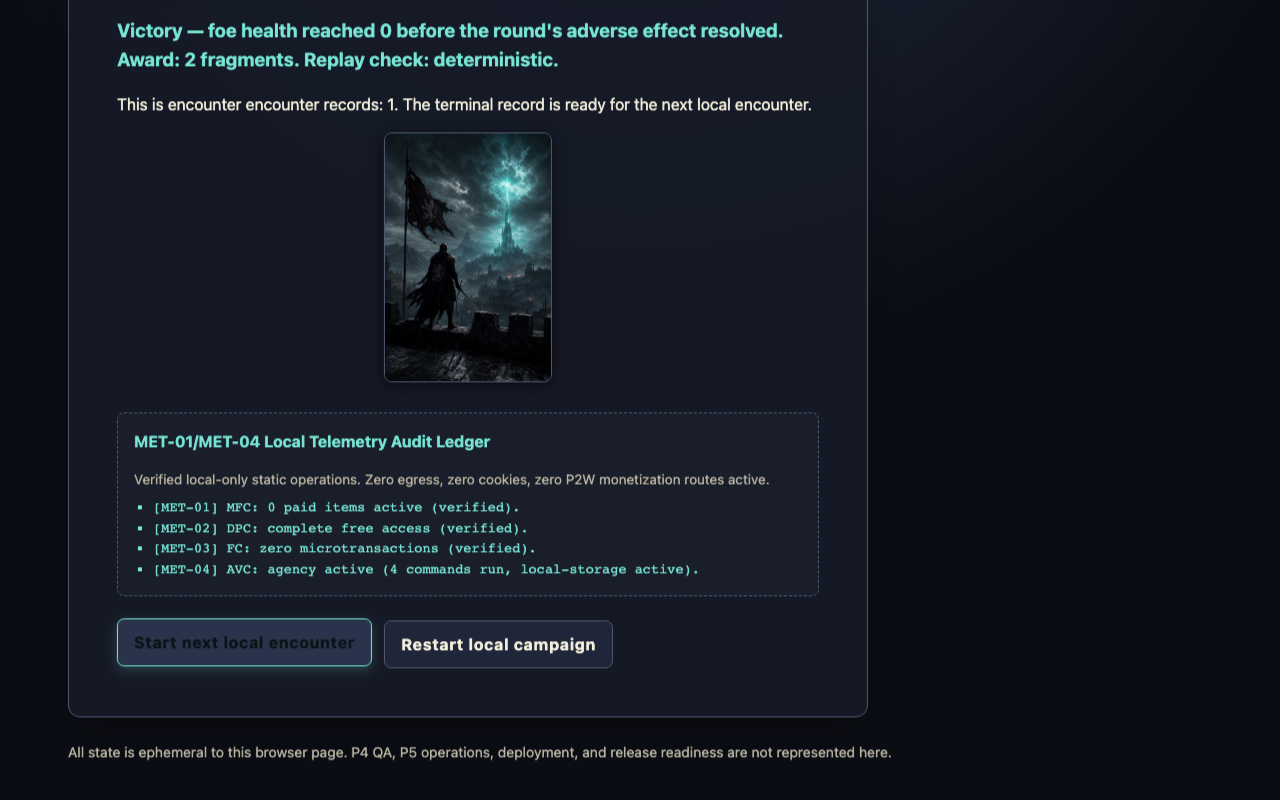
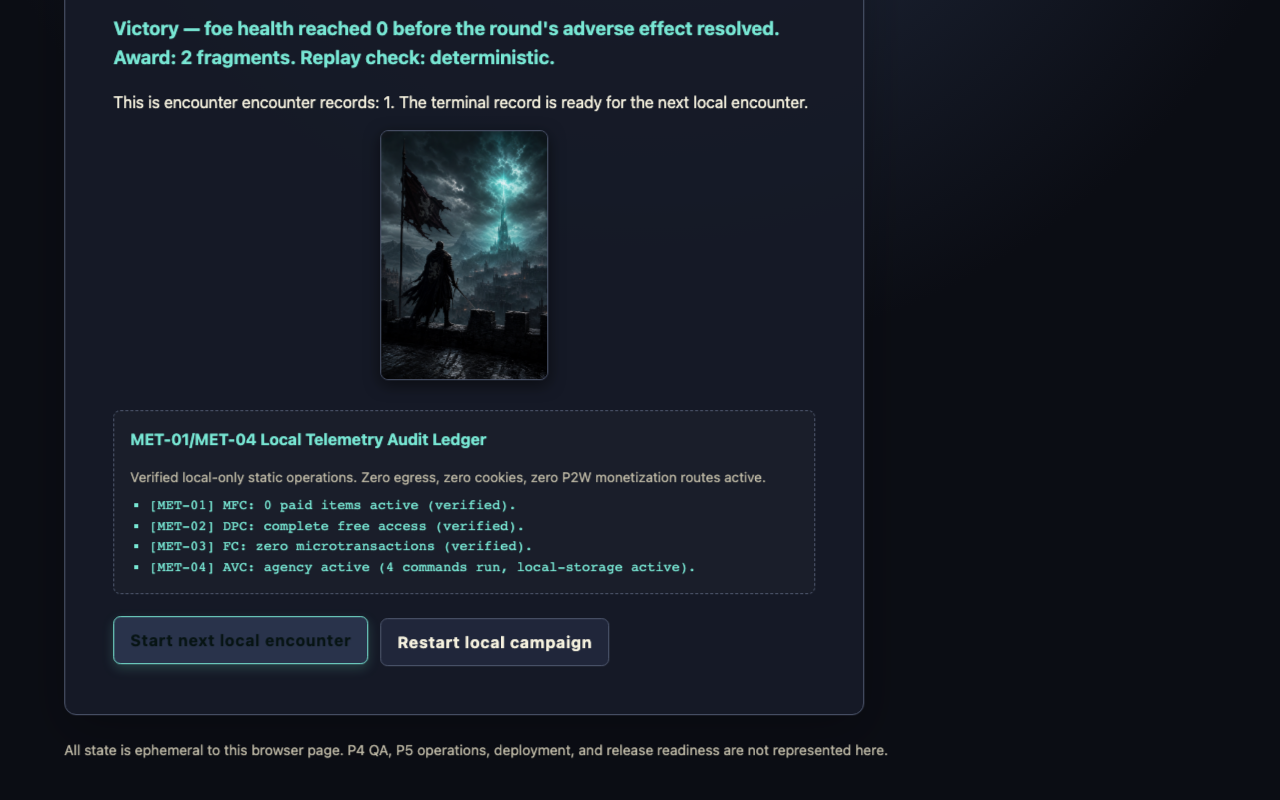
feat: Cycle 009 checkpoint #1 — quantified balance (64-plan sweep evidence + DISRUPT cost badge) and presentation play (state-diff combat floats + screen shake); S5 HOLD copy + help note; E2E juice/cost asserts

diff --git a/app.js b/app.js
@@ -177,6 +177,7 @@ const DICTIONARY = {
     intentTitle: "Current threat:",
     commandsTitle: "Semantic commands",
     commandHelp: "Pointer/touch clicks and keyboard shortcuts record the same versioned command before the deterministic reducer resolves it. Unavailable commands are disabled rather than substituted.",
+    commandHelpStage5: "Stage 5: every accepted command resolves one FULL round \u2014 your effect and the foe's answer land together, and focus does not regenerate.",
     traceTitle: "Resolution trace",
     terminalTitle: "Stage 1 result",
     btnStrike: "Strike",
@@ -229,6 +230,7 @@ const DICTIONARY = {
     intentTitle: "현재 위협:",
     commandsTitle: "커맨드 콘솔",
     commandHelp: "마우스 클릭이나 키보드 단축키(S, B, D, R)를 누르면 결정론적 리듀서가 커맨드 입력을 처리합니다. 사용할 수 없는 커맨드는 비활성화됩니다.",
+    commandHelpStage5: "5\ub2e8\uacc4: \uc2b9\uc778\ub41c \ucee4\ub9e8\ub4dc 1\ud68c\uac00 \ud55c \ub77c\uc6b4\ub4dc \uc804\uccb4\ub97c \uacb0\uc0b0\ud569\ub2c8\ub2e4 \u2014 \ub0b4 \ud6a8\uacfc\uc640 \uc801\uc758 \uc751\uc218\uac00 \ub3d9\uc2dc\uc5d0 \uc801\uc6a9\ub418\uace0, \uc9d1\uc911\uc740 \uc7ac\uc0dd\ub418\uc9c0 \uc54a\uc2b5\ub2c8\ub2e4.",
     traceTitle: "전투 분석 로그",
     terminalTitle: "전투 결과 기록",
     btnStrike: "공격",
@@ -1172,7 +1174,7 @@ function translateUI() {
   }
 
   el("#commands-title", dict.commandsTitle);
-  el("#command-help", dict.commandHelp);
+  el("#command-help", encounterIndex === 4 ? `${dict.commandHelp} ${dict.commandHelpStage5 || ""}` : dict.commandHelp);
   el("#trace-title", dict.traceTitle);
   el("#terminal-title", dict.terminalTitle);
   el("#continue-button", dict.btnContinue);
@@ -1204,7 +1206,14 @@ function translateUI() {
     if (buttonsMap[cmd]) {
       const key = cmd === "STRIKE" ? "S" : cmd === "BRACE" ? "B" : cmd === "DISRUPT" ? "D" : "R";
       const cleanLabel = buttonsMap[cmd].replace(new RegExp(`\\s*${key}$`), "");
-      button.innerHTML = `${cleanLabel} <kbd>${key}</kbd>`;
+      // DET9-NUM: surface the live command cost when it exceeds the base 1
+      // (stage-5 escalating DISRUPT) so the economy is readable on the button.
+      let costBadge = "";
+      try {
+        const liveCost = commandCost(encounter, cmd);
+        if (liveCost > 1) costBadge = ` <span class="cost-badge">${liveCost}\u26a1</span>`;
+      } catch (err) { /* unknown command labels never break translation */ }
+      button.innerHTML = `${cleanLabel}${costBadge} <kbd>${key}</kbd>`;
     }
   }
 
@@ -1523,6 +1532,48 @@ function resetCampaign() {
 }
 
 
+
+// ── DET9-JUICE: floating combat numbers + screen shake (presentation-only) ──
+// Driven by STATE DIFFS in render(): any foe_health/integrity/pressure/guard/
+// focus delta becomes a float over its owner, no matter which path (reducer,
+// RT wrap, unit arrival) caused it. The quantified economy becomes visible.
+let lastVitals = null;
+let floatsSpawned = 0;
+let shakeTimer = null;
+
+function spawnCombatFloat(anchor, text, kind) {
+  if (!anchor || typeof document === "undefined" || !document.createElement) return;
+  try {
+    const float = document.createElement("span");
+    float.className = `combat-float combat-float-${kind}`;
+    float.textContent = text;
+    if (float.style) float.style.marginLeft = `${Math.round((Math.random() - 0.5) * 36)}px`;
+    if (!anchor.appendChild) return;
+    anchor.appendChild(float);
+    floatsSpawned++;
+    if (typeof window !== "undefined") window.combatFloatCount = floatsSpawned;
+    const cleanup = () => {
+      if (float.parentNode) float.parentNode.removeChild(float);
+    };
+    if (typeof float.addEventListener === "function") float.addEventListener("animationend", cleanup);
+    setTimeout(cleanup, 1400);
+  } catch (err) {
+    /* fake-DOM safety: floats are never load-bearing */
+  }
+}
+
+function triggerScreenShake() {
+  const el = dom.screens && dom.screens.play;
+  if (!el || !el.classList) return;
+  el.classList.remove("screen-shake");
+  void (el.offsetWidth || 0); // restart animation
+  el.classList.add("screen-shake");
+  if (shakeTimer) clearTimeout(shakeTimer);
+  shakeTimer = setTimeout(() => {
+    if (el.classList) el.classList.remove("screen-shake");
+  }, 400);
+}
+
 function render() {
   if (typeof window !== "undefined") {
     window.surface = surface;
@@ -1560,6 +1611,37 @@ function render() {
   if (dom.guardBar) dom.guardBar.style.width = percentage(encounter.guard, maxGuard);
   if (dom.pressureBar) dom.pressureBar.style.width = percentage(encounter.pressure, maxPressure);
   if (dom.foeHealthBar) dom.foeHealthBar.style.width = percentage(encounter.foe_health, maxFoeHealth);
+
+  // DET9-JUICE: diff vitals -> floats. Snapshot key ties floats to one
+  // encounter instance; transitions (continue/restart/resume) just resnapshot.
+  const vitalsKey = `${encounterIndex}|${outcomes.length}`;
+  const vitals = {
+    key: vitalsKey,
+    foe: Number(encounter.foe_health),
+    integrity: Number(encounter.integrity),
+    pressure: Number(encounter.pressure),
+    guard: Number(encounter.guard),
+    focus: Number(encounter.focus),
+  };
+  if (surface === "play" && lastVitals && lastVitals.key === vitalsKey) {
+    const dFoe = vitals.foe - lastVitals.foe;
+    if (dFoe < 0) spawnCombatFloat(dom.voidAvatar, `${dFoe}`, "damage");
+    const dInt = vitals.integrity - lastVitals.integrity;
+    if (dInt < 0) {
+      spawnCombatFloat(dom.knightAvatar, `${dInt}`, "damage");
+      if (dInt <= -2) triggerScreenShake();
+    } else if (dInt > 0) {
+      spawnCombatFloat(dom.knightAvatar, `+${dInt}`, "heal");
+    }
+    const dPressure = vitals.pressure - lastVitals.pressure;
+    if (dPressure > 0) spawnCombatFloat(dom.knightAvatar, `+${dPressure} \u26a0`, "pressure");
+    const dGuard = vitals.guard - lastVitals.guard;
+    if (dGuard > 0) spawnCombatFloat(dom.knightAvatar, `+${dGuard} \u26e8`, "guard");
+    const dFocus = vitals.focus - lastVitals.focus;
+    if (dFocus <= -0.9) spawnCombatFloat(dom.knightAvatar, `${Math.round(dFocus)} \u26a1`, "focus");
+    else if (dFocus >= 0.9) spawnCombatFloat(dom.knightAvatar, `+${Math.round(dFocus)} \u26a1`, "focus");
+  }
+  lastVitals = vitals;
 
   // Update Foe active intent visual alerts
   if (dom.voidAvatar && dom.voidAvatar.classList) {
@@ -1983,7 +2065,13 @@ function commandAvailable(command) {
 
 function terminalCopy(outcome) {
   const label = traceOutcomeText(outcome);
-  const details = outcomeText(outcome);
+  let details = outcomeText(outcome);
+  // World-bible S5 beat: HOLD is survival, not an answer — point at the trade.
+  if (outcome === "HOLD" && encounterIndex === 4) {
+    details = currentLang === "ko"
+      ? "전장은 지켜냈지만 서지의 물음은 답을 얻지 못했다. 보상 0 — 확실함을 내주는 교환만이 승리를 연다"
+      : "the field held, but the Surge's question stands unanswered. Award 0 — only a deliberate trade opens victory";
+  }
   return `${label} — ${details}.`;
 }
 

diff --git a/styles.css b/styles.css
@@ -503,3 +503,41 @@ button:focus-visible, a:focus-visible {
     filter: drop-shadow(0 0 22px rgba(239, 68, 68, 0.9)) drop-shadow(0 0 44px rgba(190, 24, 93, 0.55));
   }
 }
+
+/* ── DET9-JUICE: floating combat numbers + screen shake ─────────────────── */
+.entity-avatar { position: relative; }
+.combat-float {
+  position: absolute;
+  left: 50%;
+  top: -6px;
+  transform: translateX(-50%);
+  font-weight: 800;
+  font-size: 1.05rem;
+  pointer-events: none;
+  z-index: 40;
+  white-space: nowrap;
+  text-shadow: 0 1px 4px rgba(0, 0, 0, 0.9);
+  animation: combat-float-rise 1.1s ease-out forwards;
+}
+.combat-float-damage { color: #ef4444; }
+.combat-float-heal { color: #10b981; }
+.combat-float-guard { color: #3b82f6; }
+.combat-float-focus { color: #eab308; }
+.combat-float-pressure { color: #f97316; }
+@keyframes combat-float-rise {
+  0% { opacity: 0; transform: translate(-50%, 8px) scale(0.85); }
+  15% { opacity: 1; }
+  100% { opacity: 0; transform: translate(-50%, -34px) scale(1.05); }
+}
+.screen-shake { animation: screen-shake-anim 0.25s ease-in-out; }
+@keyframes screen-shake-anim {
+  0%, 100% { transform: translate(0, 0); }
+  25% { transform: translate(-6px, 2px); }
+  50% { transform: translate(5px, -3px); }
+  75% { transform: translate(-3px, 2px); }
+}
+.cost-badge { color: #eab308; font-weight: 700; font-size: 0.8em; }
+@media (prefers-reduced-motion: reduce) {
+  .combat-float { animation: none; opacity: 0.9; }
+  .screen-shake { animation: none; }
+}

diff --git a/_workspace/20260716-design-cadence-cycle-009-v1/production/checkpoint-log.md b/_workspace/20260716-design-cadence-cycle-009-v1/production/checkpoint-log.md
@@ -24,3 +24,46 @@ Findings:
 
 Directives (C009-D-001): DET9-COPY (F1), DET9-COST (F2), DET9-HELP (F3) — all
 presentation-lane, en+ko, fake-DOM-safe, E2E-guarded where feasible.
+
+## Checkpoint #1 amendment — user interjection (2026-07-16T20:30Z)
+
+User: "중요한건 수치화된 벨런스와 연출 플레이" — QUANTIFIED BALANCE and
+PRESENTATION PLAY supersede copy polish. Reprioritized directives:
+
+- DET9-NUM (P0): quantified balance — computed per-stage numeric table
+  (core configs + commandCost curves + RT presets + derived metrics:
+  idle time-to-defeat, focus budgets, S5 policy space) shipped as
+  balance-numbers evidence; dynamic DISRUPT cost surfaced on the button (F2).
+- DET9-JUICE (P0): presentation play — floating combat numbers driven by
+  STATE DIFFS (foe_health/integrity/pressure/guard deltas render as floats
+  over their owners; focus costs at command sites), light screen shake on
+  big integrity hits; reduced-motion safe. Balance numbers become visible
+  in play — the two priorities meet.
+- F1/F3 copy: folded in as minor items (S5 HOLD override line, S5 help note).
+
+## Checkpoint #1 — implementation + QA close (2026-07-16T21:10Z)
+
+Shipped (DET9-JUICE): state-diff floating combat numbers over both avatars
+(foe damage, integrity damage/heal, +pressure, +guard, discrete focus spend),
+screen shake on >=2 integrity hits, reduced-motion collapse. All spawn paths
+covered because diffing happens in render(), not at call sites.
+Shipped (DET9-NUM): scripts/balance-numbers.mjs (64-plan frozen-reducer sweep
+per stage + RT presets parsed from app.js) -> systems/balance-numbers-v1.md;
+escalating DISRUPT cost badge on the command button (1 hidden, 2⚡/3⚡ shown).
+Shipped (F1/F3): S5 HOLD terminal copy override (en/ko), S5 command-help note.
+
+QA: vertical-slice 3/3, game-core 14/14, 5-stage sim PASS, browser E2E exit 0
+with new probe asserts — damageFloatSeen=true, floatsDelta=4/round,
+costBadge="2⚡" after first DISRUPT.
+
+QUANTIFIED FINDING (peer handoff): the 64-plan sweep proves stages 2/3/4 have
+ZERO victory plans in the 3-round semantic game (foe 8/10/12 HP vs max ~6
+damage per 3 rounds). Winnable stages: 1 (1 plan) and 5 (2 plans). The RT
+endless-loop makes 2-4 winnable only by unbounded grinding — the semantic
+economy for 2-4 is a peer (P2 systems) decision: either raise damage ceilings,
+lower foe HP, or accept HOLD-gated progression. Relayed via shared memory.
+
+## Checkpoint #2 — scheduled (next ~30min of production work)
+
+Agenda: peer response on stages 2-4 economy; float polish review on live;
+lobby copy vs quantified table (surface victory-plan hints?); APK icon check.

diff --git a/_workspace/20260716-design-cadence-cycle-009-v1/systems/balance-numbers-v1.md b/_workspace/20260716-design-cadence-cycle-009-v1/systems/balance-numbers-v1.md
@@ -1,0 +1,18 @@
+---
+run_id: 20260716-design-cadence-cycle-009-v1
+owner: game-production-director
+created_at: 2026-07-16T21:05:00Z
+generator: node scripts/balance-numbers.mjs (frozen-reducer sweep, RT presets parsed from app.js)
+immutable: true
+---
+# Quantified balance — stage envelopes (frozen reducer sweep)
+
+| Stage | Schedule | INT/FOC/FOE | DISRUPT curve | RT cd/speed/regen | Idle defeat ≈ | 64-plan V/H/Di/Dp/A/inv | Victory plans |
+|---|---|---|---|---|---|---|---|
+| 1 | STRIKE/STRIKE/STRIKE | 6/3/6 | 1→1→1 | 3.5s/33.3%/0.5 | 10.5s | 1/13/2/0/0/48 | STRIKE,STRIKE,STRIKE |
+| 2 | SURGE/STRIKE/STRIKE | 6/3/8 | 1→1→1 | 3.2s/33.3%/0.5 | 6.4s | 0/10/20/0/0/34 | — |
+| 3 | STRIKE/SURGE/STRIKE | 8/4/10 | 1→1→1 | 3s/36%/0.5 | 6s | 0/14/4/0/0/46 | — |
+| 4 | STRIKE/SURGE/SURGE | 6/3/12 | 1→1→1 | 2.8s/36%/0.5 | 5.6s | 0/8/23/0/0/33 | — |
+| 5 | SURGE/SURGE/STRIKE | 6/4/5 | 1→2→3 | 2.5s/40%/0 | 5s | 2/7/22/0/0/33 | STRIKE,DISRUPT,STRIKE · DISRUPT,STRIKE,STRIKE |
+
+Awards: VICTORY=2 fragments, HOLD=0 (stage1-rules-v2).